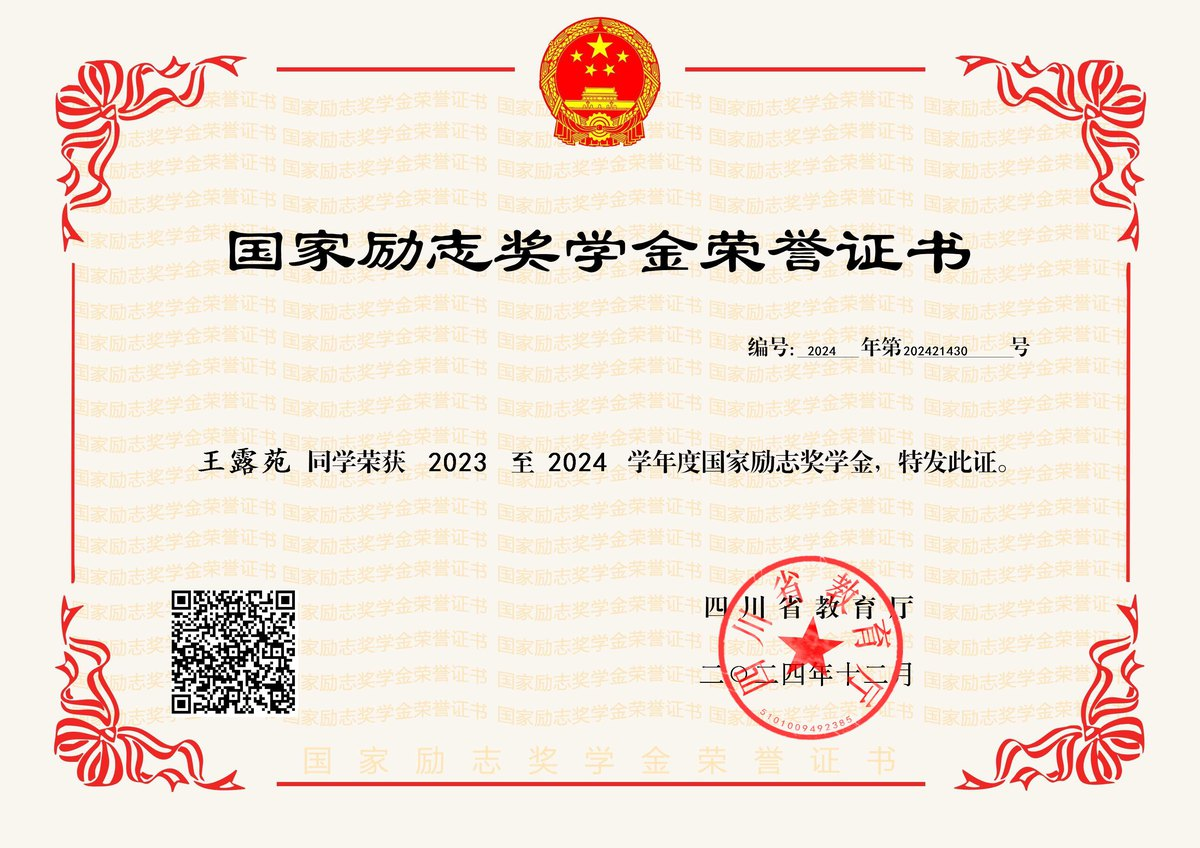
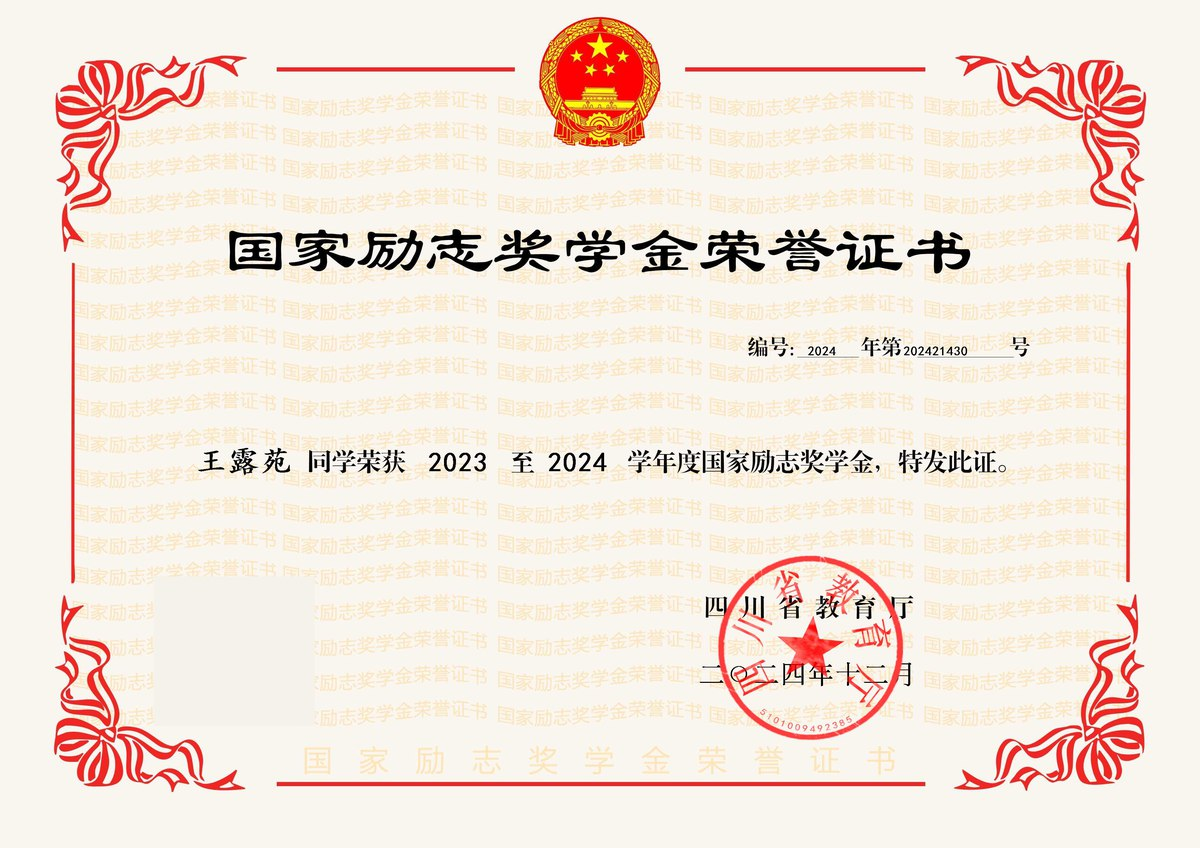
荣誉墙优化：新增国家级科普/双奖学金/AI应用工程师认证进代表性，含金量低项下沉画廊；身份证号与验证二维码脱敏

Changed region(s): [[0.1233, 0.6745, 0.2467, 0.8585]]

diff --git a/README.md b/README.md
@@ -4,7 +4,7 @@
 
 - 🎓 成都东软学院 · 人工智能专业 · 2026 届（专业排名前 5%）
 - 🏥 三年聚焦医疗 AI 一条主线：临床试验智能化（企业实习）→ 记忆辅助产品（落地服务 100+ 老人）→ 医疗影像与检测
-- 🏆 国家级奖项 19 项 · EI 会议论文 2 篇 · 软件著作权 7 项 · 华为云开发者认证
+- 🏆 国家级奖项 19 项 · EI 会议论文 2 篇 · 软件著作权 7 项 · 人工智能应用工程师（高级）/ 华为云开发者认证
 - 📫 联系我：**2014626566@qq.com**
 
 ---
@@ -83,28 +83,31 @@
 
 ---
 
-## 🏆 荣誉墙 · 代表性奖项
+## 🏆 荣誉墙 · 代表性成果
 
 <table>
 <tr>
-<td align="center" width="33%"><img src="honors/sw-adni.jpg" height="150"><br><sub><b>软件著作权</b><br>基于 ADNI 和 3D-CNN 的 AD 智能诊断系统</sub></td>
-<td align="center" width="33%"><img src="honors/paper-ei.jpg" height="150"><br><sub><b>EI 会议论文录用</b><br>ICCTDA 2025 · AI 智能工程系统</sub></td>
-<td align="center" width="33%"><img src="honors/huawei-euler.jpg" height="150"><br><sub><b>华为云开发者认证</b><br>HCCDA · Huawei Cloud EulerOS</sub></td>
+<td align="center" width="25%"><img src="honors/sw-adni.jpg" height="150"><br><sub><b>软件著作权</b><br>基于 ADNI 和 3D-CNN 的 AD 智能诊断系统</sub></td>
+<td align="center" width="25%"><img src="honors/paper-ei.jpg" height="150"><br><sub><b>EI 会议论文录用</b><br>ICCTDA 2025</sub></td>
+<td align="center" width="25%"><img src="honors/ai-engineer-cert.jpg" height="150"><br><sub><b>人工智能应用工程师（高级）</b><br>工信部教育与考试中心</sub></td>
+<td align="center" width="25%"><img src="honors/huawei-euler.jpg" height="150"><br><sub><b>华为云开发者认证</b><br>HCCDA · EulerOS</sub></td>
 </tr>
 <tr>
-<td align="center" width="33%"><img src="honors/jingkaibei-p1.jpg" height="150"><br><sub><b>省级一等奖</b><br>经开杯全国大学生创新创业大赛</sub></td>
-<td align="center" width="33%"><img src="honors/robot-n2.jpg" height="150"><br><sub><b>全国二等奖</b><br>中国机器人及人工智能大赛 · AI 创新赛</sub></td>
-<td align="center" width="33%"><img src="honors/challenge-p3.jpg" height="150"><br><sub><b>省级奖项</b><br>“挑战杯”大学生创业计划竞赛</sub></td>
+<td align="center" width="25%"><img src="honors/kepu-national.jpg" height="150"><br><sub><b>全国总决赛三等奖</b><br>全国青年科普创新大赛 · 多 Agent 深度强化学习</sub></td>
+<td align="center" width="25%"><img src="honors/robot-n2.jpg" height="150"><br><sub><b>全国二等奖</b><br>中国机器人及人工智能大赛 · AI 创新赛</sub></td>
+<td align="center" width="25%"><img src="honors/national-scholarship.jpg" height="150"><br><sub><b>筑梦奖学金</b><br>中国教育发展基金会</sub></td>
+<td align="center" width="25%"><img src="honors/scholarship.jpg" height="150"><br><sub><b>国家励志奖学金</b></sub></td>
 </tr>
 <tr>
-<td align="center" width="33%"><img src="honors/sc-smart-med.jpg" height="150"><br><sub><b>四川省智能医学创新设计大赛</b></sub></td>
-<td align="center" width="33%"><img src="honors/ai-intl-p2.jpg" height="150"><br><sub><b>省级二等奖</b><br>国际人工智能大赛</sub></td>
-<td align="center" width="33%"><img src="honors/lanqiaobei.jpg" height="150"><br><sub><b>蓝桥杯</b> 全国软件和信息技术专业人才大赛</sub></td>
+<td align="center" width="25%"><img src="honors/jingkaibei-p1.jpg" height="150"><br><sub><b>省级一等奖</b><br>经开杯全国大学生创新创业大赛</sub></td>
+<td align="center" width="25%"><img src="honors/ai-intl-p2.jpg" height="150"><br><sub><b>省级二等奖</b><br>国际人工智能大赛</sub></td>
+<td align="center" width="25%"><img src="honors/sc-smart-med.jpg" height="150"><br><sub><b>四川省智能医学创新设计大赛</b></sub></td>
+<td align="center" width="25%"><img src="honors/comprehensive-a.jpg" height="150"><br><sub><b>四川省综合素质 A 级证书</b></sub></td>
 </tr>
 </table>
 
 <details>
-<summary><b>📜 展开查看全部证书（软著 / 论文 / 竞赛 / 认证共 50+ 项）</b></summary>
+<summary><b>📜 展开查看全部证书（软著 / 论文 / 竞赛 / 认证 / 奖学金共 50+ 项）</b></summary>
 
 ### 学术成果 · 软件著作权 + 论文
 
@@ -123,32 +126,43 @@
 </tr>
 </table>
 
+### 奖学金 · 综合荣誉
+
+<table>
+<tr>
+<td align="center" width="25%"><img src="honors/national-scholarship.jpg" height="120"><br><sub>筑梦奖学金（教育部基金会）</sub></td>
+<td align="center" width="25%"><img src="honors/scholarship.jpg" height="120"><br><sub>国家励志奖学金</sub></td>
+<td align="center" width="25%"><img src="honors/comprehensive-a.jpg" height="120"><br><sub>四川省综合素质 A 级证书</sub></td>
+<td align="center" width="25%"><img src="honors/project-final.jpg" height="120"><br><sub>大学生创新创业项目结项</sub></td>
+</tr>
+</table>
+
 ### 科技 · 创新 · AI 竞赛
 
 <table>
 <tr>
 <td align="center" width="25%"><img src="honors/jingkaibei-p1.jpg" height="115"><br><sub>经开杯双创·省一等奖</sub></td>
-<td align="center" width="25%"><img src="honors/challenge-p3.jpg" height="115"><br><sub>挑战杯·省级</sub></td>
-<td align="center" width="25%"><img src="honors/challenge-s1.jpg" height="115"><br><sub>挑战杯·校级一等奖</sub></td>
-<td align="center" width="25%"><img src="honors/cicc.jpg" height="115"><br><sub>中国国际大学生创新大赛</sub></td>
-</tr>
-<tr>
+<td align="center" width="25%"><img src="honors/kepu-national.jpg" height="115"><br><sub>全国青年科普创新·国家三等奖</sub></td>
 <td align="center" width="25%"><img src="honors/robot-n2.jpg" height="115"><br><sub>机器人及 AI 大赛·全国二等奖</sub></td>
 <td align="center" width="25%"><img src="honors/robot-p2.jpg" height="115"><br><sub>机器人及 AI 大赛·省二等奖</sub></td>
-<td align="center" width="25%"><img src="honors/ai-intl-p2.jpg" height="115"><br><sub>国际人工智能大赛·省二</sub></td>
-<td align="center" width="25%"><img src="honors/ai-6th.jpg" height="115"><br><sub>人工智能大赛</sub></td>
 </tr>
 <tr>
+<td align="center" width="25%"><img src="honors/ai-intl-p2.jpg" height="115"><br><sub>国际人工智能大赛·省二</sub></td>
+<td align="center" width="25%"><img src="honors/ai-6th.jpg" height="115"><br><sub>人工智能大赛</sub></td>
+<td align="center" width="25%"><img src="honors/challenge-p3.jpg" height="115"><br><sub>挑战杯·省级</sub></td>
+<td align="center" width="25%"><img src="honors/challenge-s1.jpg" height="115"><br><sub>挑战杯·校级一等奖</sub></td>
+</tr>
+<tr>
+<td align="center" width="25%"><img src="honors/cicc.jpg" height="115"><br><sub>中国国际大学生创新大赛</sub></td>
 <td align="center" width="25%"><img src="honors/sc-smart-med.jpg" height="115"><br><sub>四川省智能医学创新设计</sub></td>
 <td align="center" width="25%"><img src="honors/sc-biomed.jpg" height="115"><br><sub>四川省生物医学工程创新设计</sub></td>
 <td align="center" width="25%"><img src="honors/smart-med-p3.jpg" height="115"><br><sub>智慧医疗创新大赛·省级</sub></td>
-<td align="center" width="25%"><img src="honors/intl-sw-design.jpg" height="115"><br><sub>国际软件设计应用大赛</sub></td>
 </tr>
 <tr>
+<td align="center" width="25%"><img src="honors/intl-sw-design.jpg" height="115"><br><sub>国际软件设计应用大赛</sub></td>
 <td align="center" width="25%"><img src="honors/sw-design-p3.jpg" height="115"><br><sub>全国软件设计创新大赛·省级</sub></td>
 <td align="center" width="25%"><img src="honors/lanqiaobei.jpg" height="115"><br><sub>蓝桥杯</sub></td>
 <td align="center" width="25%"><img src="honors/cc-design.jpg" height="115"><br><sub>计算机设计大赛</sub></td>
-<td align="center" width="25%"><img src="honors/kepu-n3.jpg" height="115"><br><sub>全国青年科普创新·国三</sub></td>
 </tr>
 <tr>
 <td align="center" width="25%"><img src="honors/ican.jpg" height="115"><br><sub>iCAN 创新创业大赛·优胜</sub></td>
@@ -170,8 +184,8 @@
 </tr>
 <tr>
 <td align="center" width="25%"><img src="honors/intl-youth-2.jpg" height="115"><br><sub>国际青年总决赛·国际二等奖</sub></td>
+<td align="center" width="25%"><img src="honors/cada-design.jpg" height="115"><br><sub>2025 CADA 概念设计·铜赏</sub></td>
 <td align="center" width="25%"><img src="honors/un-cert.jpg" height="115"><br><sub>联合国证书</sub></td>
-<td align="center" width="25%"><img src="honors/cada2025.jpg" height="115"><br><sub>2025 CADA</sub></td>
 <td align="center" width="25%"><img src="honors/fire-p1.jpg" height="115"><br><sub>全民消防科普·省一等奖</sub></td>
 </tr>
 </table>
@@ -180,10 +194,10 @@
 
 <table>
 <tr>
+<td align="center" width="25%"><img src="honors/ai-engineer-cert.jpg" height="115"><br><sub>人工智能应用工程师（高级）</sub></td>
 <td align="center" width="25%"><img src="honors/huawei-euler.jpg" height="115"><br><sub>华为云开发者认证 HCCDA</sub></td>
 <td align="center" width="25%"><img src="honors/huawei-appdev.jpg" height="115"><br><sub>华为应用开发者认证</sub></td>
 <td align="center" width="25%"><img src="honors/mandarin.jpg" height="115"><br><sub>普通话水平测试</sub></td>
-<td align="center" width="25%"></td>
 </tr>
 </table>
 
@@ -197,16 +211,16 @@
 <td align="center" width="25%"><img src="honors/aigc-2.jpg" height="110"><br><sub>AIGC 存证</sub></td>
 </tr>
 <tr>
-<td align="center" width="25%"><img src="honors/scholarship.jpg" height="110"><br><sub>励志奖学金</sub></td>
-<td align="center" width="25%"><img src="honors/project-final.jpg" height="110"><br><sub>大创项目结项</sub></td>
 <td align="center" width="25%"><img src="honors/school-1.jpg" height="110"><br><sub>校赛一等奖</sub></td>
 <td align="center" width="25%"><img src="honors/school-2.jpg" height="110"><br><sub>校赛二等奖</sub></td>
-</tr>
-<tr>
 <td align="center" width="25%"><img src="honors/kepu-vol.jpg" height="110"><br><sub>科普志愿</sub></td>
 <td align="center" width="25%"><img src="honors/volunteer.jpg" height="110"><br><sub>志愿服务</sub></td>
+</tr>
+<tr>
 <td align="center" width="25%"><img src="honors/marathon-full.jpg" height="110"><br><sub>成都双遗马拉松·全马完赛</sub></td>
 <td align="center" width="25%"><img src="honors/marathon-vol.jpg" height="110"><br><sub>马拉松志愿者</sub></td>
+<td align="center" width="25%"><img src="honors/sports-3.jpg" height="110"><br><sub>校运动会</sub></td>
+<td align="center" width="25%"><img src="honors/league.jpg" height="110"><br><sub>共青团荣誉</sub></td>
 </tr>
 </table>
 
